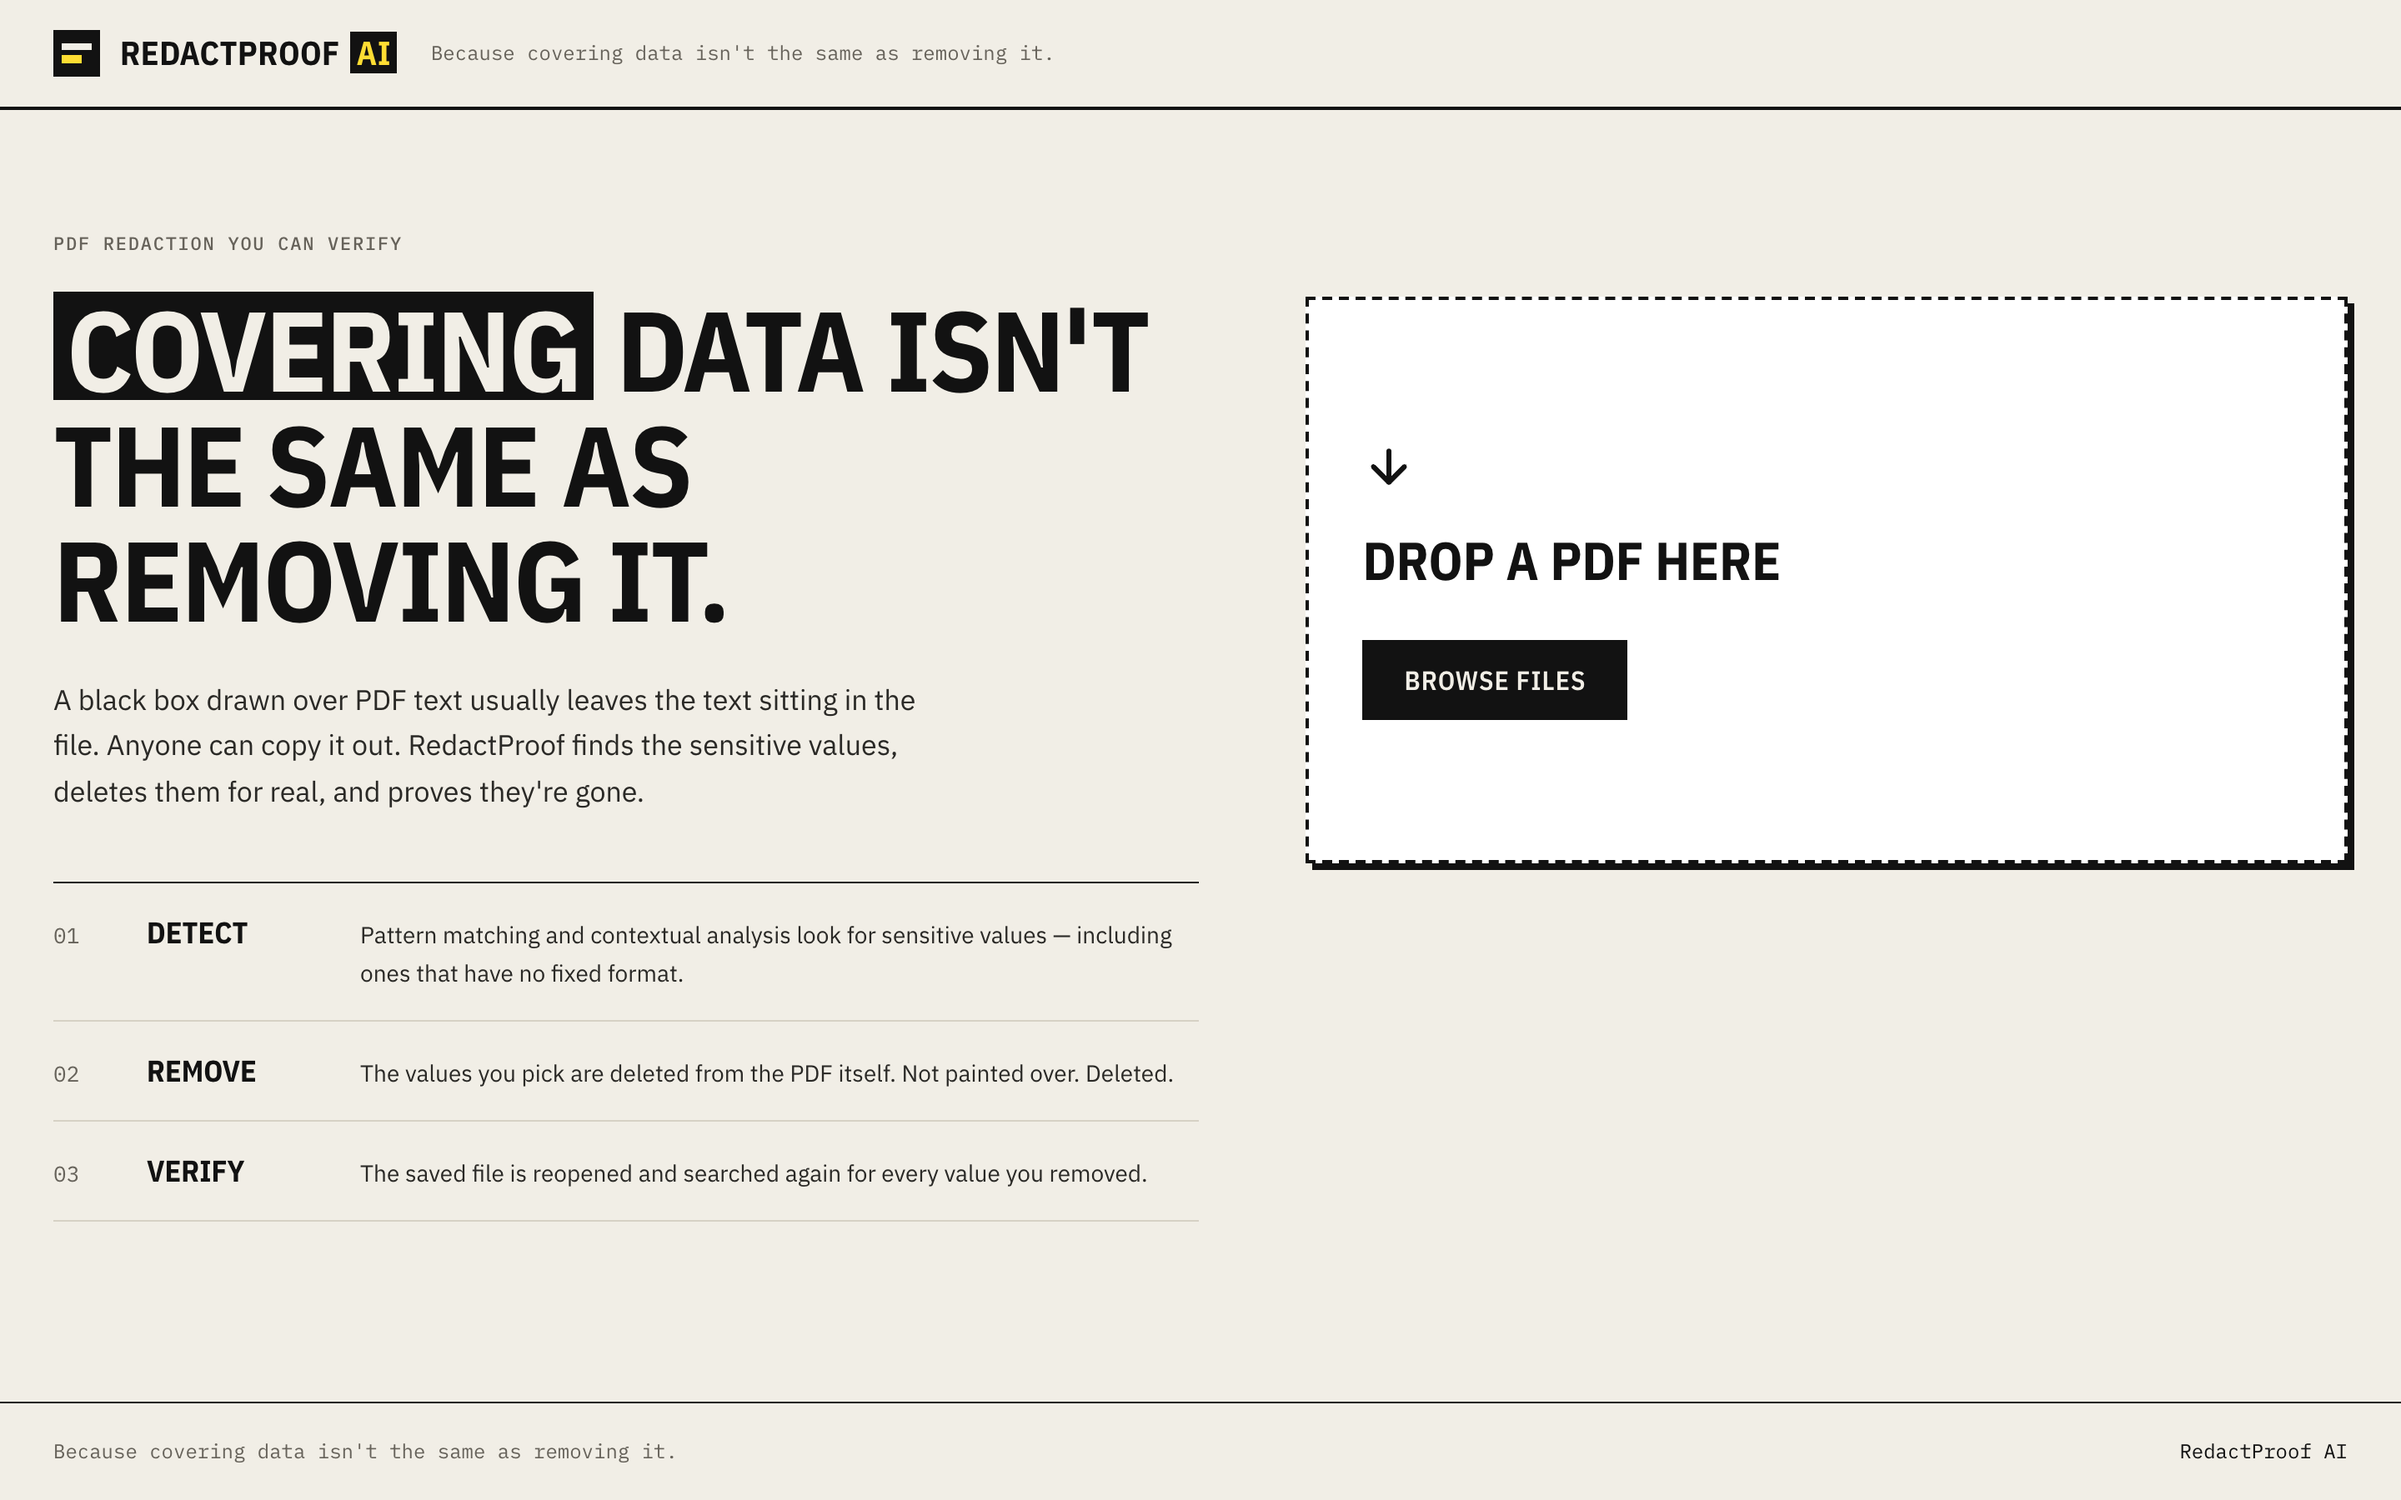
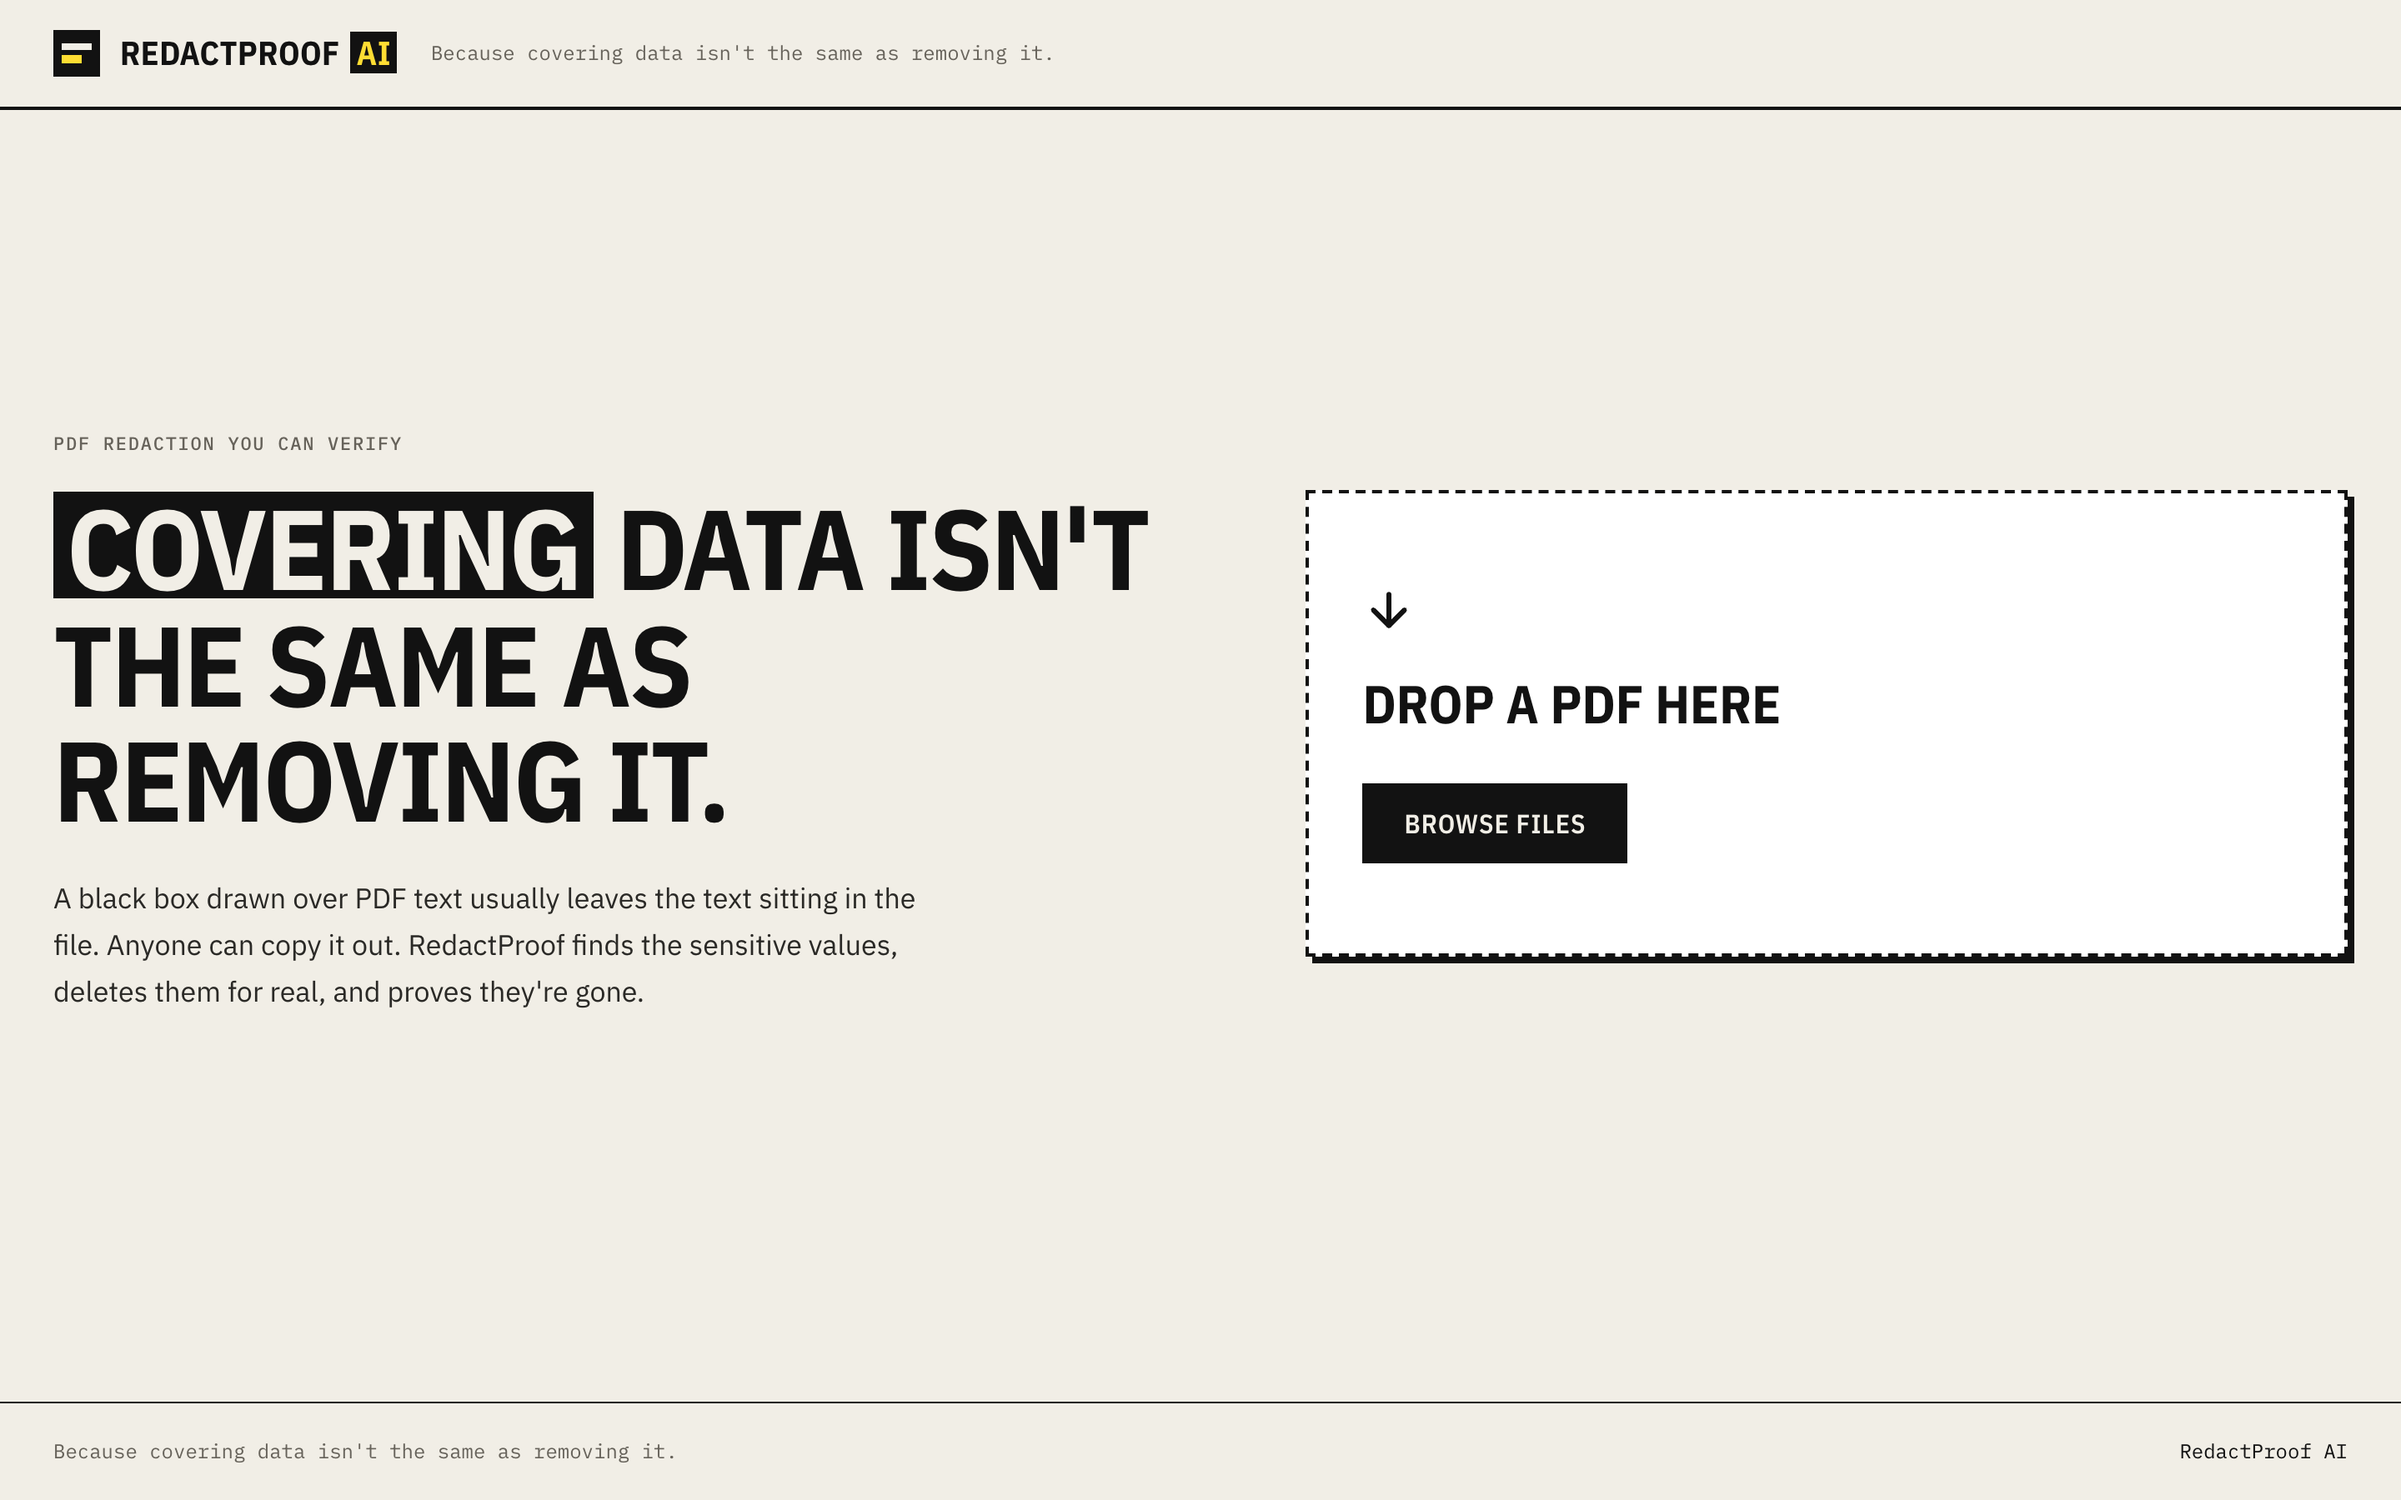
Remove the Detect/Remove/Verify steps and tighten the upload page
The hero and drop zone are shorter and vertically centered, so the page
fits a laptop screen without scrolling.

diff --git a/frontend/src/components/UploadZone.tsx b/frontend/src/components/UploadZone.tsx
@@ -21,12 +21,6 @@ function validate(file: File): string | null {
   return null
 }
 
-const STEPS = [
-  { title: 'Detect', body: 'Pattern matching and contextual analysis look for sensitive values — including ones that have no fixed format.' },
-  { title: 'Remove', body: 'The values you pick are deleted from the PDF itself. Not painted over. Deleted.' },
-  { title: 'Verify', body: 'The saved file is reopened and searched again for every value you removed.' },
-]
-
 export function UploadZone({ analyzing, error, onFile, onCancel }: UploadZoneProps) {
   const inputRef = useRef<HTMLInputElement>(null)
   const [dragging, setDragging] = useState(false)
@@ -49,7 +43,7 @@ export function UploadZone({ analyzing, error, onFile, onCancel }: UploadZonePro
   }
 
   return (
-    <div className="grid gap-12 pt-2 lg:grid-cols-[minmax(0,1.1fr)_minmax(0,1fr)] lg:gap-16 lg:pt-8">
+    <div className="grid items-center gap-10 lg:my-auto lg:grid-cols-[minmax(0,1.1fr)_minmax(0,1fr)] lg:gap-16 lg:pb-10">
       <div>
         <p className="tag text-muted">PDF redaction you can verify</p>
         <h1 className="mt-5 font-display text-[44px] leading-[1.02] font-bold tracking-[-0.015em] text-ink uppercase sm:text-[68px]">
@@ -59,19 +53,9 @@ export function UploadZone({ analyzing, error, onFile, onCancel }: UploadZonePro
           A black box drawn over PDF text usually leaves the text sitting in the file. Anyone can copy it out. RedactProof
           finds the sensitive values, deletes them for real, and proves they're gone.
         </p>
-
-        <ol className="mt-10 border-t-[1.5px] border-ink">
-          {STEPS.map(({ title, body }, i) => (
-            <li key={title} className="grid grid-cols-[48px_120px_minmax(0,1fr)] items-baseline gap-2 border-b border-line py-4 max-sm:grid-cols-[40px_minmax(0,1fr)]">
-              <span className="font-mono text-[13px] text-muted">0{i + 1}</span>
-              <span className="font-display text-[18px] font-bold text-ink uppercase">{title}</span>
-              <span className="text-[14px] leading-relaxed text-body max-sm:col-start-2">{body}</span>
-            </li>
-          ))}
-        </ol>
       </div>
 
-      <div className="lg:pt-10">
+      <div>
         <div
           onDragOver={(e) => {
             e.preventDefault()
@@ -80,7 +64,7 @@ export function UploadZone({ analyzing, error, onFile, onCancel }: UploadZonePro
           onDragLeave={() => setDragging(false)}
           onDrop={onDrop}
           className={cx(
-            'flex min-h-[340px] flex-col justify-center border-2 border-dashed border-ink px-8 py-10 shadow-hard transition-colors',
+            'flex min-h-[280px] flex-col justify-center border-2 border-dashed border-ink px-8 py-8 shadow-hard transition-colors',
             dragging ? 'bg-marker' : 'bg-surface',
           )}
         >

diff --git a/frontend/src/components/AppShell.tsx b/frontend/src/components/AppShell.tsx
@@ -33,7 +33,7 @@ export function AppShell({ health, onHome, children }: { health: HealthState; on
           <OfflineBadge state={health} />
         </div>
       </header>
-      <main className="mx-auto w-full max-w-[1440px] flex-1 px-4 py-8 sm:px-8 sm:py-10">{children}</main>
+      <main className="mx-auto flex w-full max-w-[1440px] flex-1 flex-col px-4 py-8 sm:px-8 sm:py-10">{children}</main>
       <footer className="border-t-[1.5px] border-ink">
         <div className="mx-auto flex max-w-[1440px] flex-col gap-1 px-4 py-5 font-mono text-[12px] text-muted sm:flex-row sm:justify-between sm:px-8">
           <span>Because covering data isn't the same as removing it.</span>
